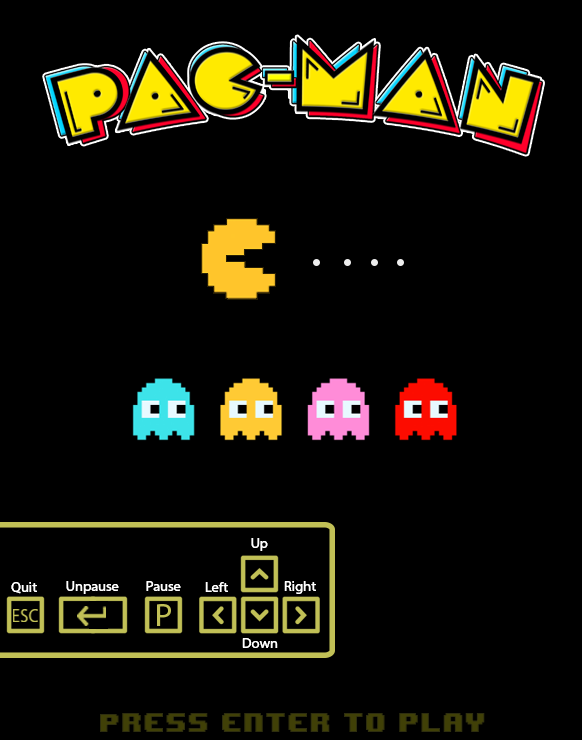
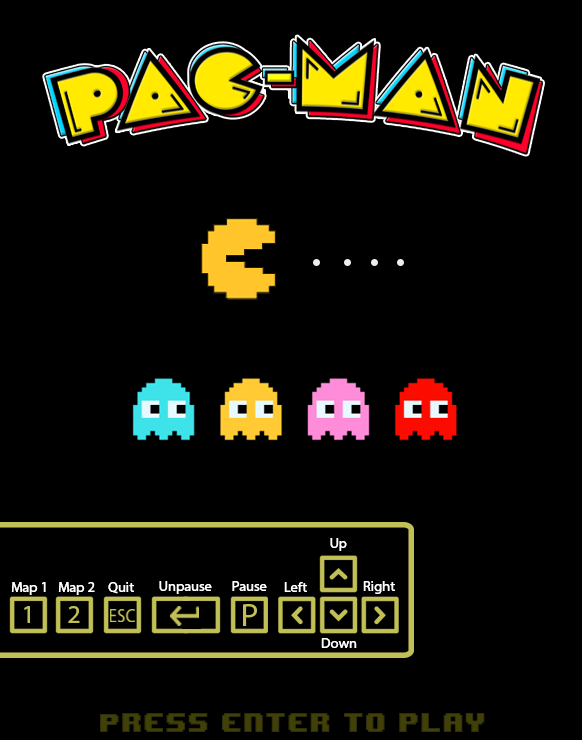
YOu can now change map on mainmenu screen

Changed region(s): [[0.0, 0.6838, 0.7113, 0.9014]]

diff --git a/Managers/GameManager.cpp b/Managers/GameManager.cpp
@@ -12,7 +12,7 @@ GameManager::GameManager() {
     /// Creating and adding all ghost to our ghosts vector.
     m_ghosts.push_back(std::make_shared<RedGhost>(11, 16, 13, 14, 11, 11, 9, 8));
     m_ghosts.push_back(std::make_shared<BlueGhost>(16, 16, 13, 14, 15, 11, 18, 8));
-    m_ghosts.push_back(std::make_shared<PinkGhost>(11, 18, 13, 14, 9, 23, 5, 25));
+    m_ghosts.push_back(std::make_shared<PinkGhost>(11, 18, 13, 14, 9, 23, 6, 25));
     m_ghosts.push_back(std::make_shared<OrangeGhost>(16, 18, 12, 14, 19, 24, 22, 26));
 }
 
@@ -107,7 +107,11 @@ void GameManager::loadGame() {
         Mix_HaltChannel(-1);
         m_gameState = 2;
     } else {
-        m_level = new Map("../Resources/Levels/Level_layout_1.txt");
+        if (m_mapChoice == 2){
+            m_level = new Map("../Resources/Levels/Level_layout_2.txt");
+        }else{
+            m_level = new Map("../Resources/Levels/Level_layout_1.txt");
+        }
         m_soundManager.playIntroSound(m_playedOnce);
         m_gameState = 2;
     }
@@ -127,18 +131,31 @@ void GameManager::pausedState(SDL_Event event) {
     }
 
     if (SDL_PollEvent(&event)) {
-        if (event.type == SDL_KEYDOWN) {
-            /// Unpause
-            if (event.key.keysym.sym == SDLK_RETURN) {
-                m_pause = false;
-                m_gameState = 1;
+            if (event.type == SDL_KEYDOWN) {
+                /// Unpause
+                if (event.key.keysym.sym == SDLK_RETURN) {
+                    m_pause = false;
+                    m_gameState = 1;
 
-                /// Exit game
-            } else if (event.key.keysym.sym == SDLK_ESCAPE) {
-                m_pause = false;
-                m_gameRunning = false;
+                    /// Exit game
+                } else if (event.key.keysym.sym == SDLK_ESCAPE) {
+                    m_pause = false;
+                    m_gameRunning = false;
+                }
+                ///if its the first time mainmenu screen shows, you can choose which map, and pacmans y-coordinate changes because of map spawn difference.
+                else if (event.key.keysym.sym == SDLK_1) {
+                    if(!m_playedOnce){
+                        m_mapChoice = 1;
+                        m_pacman = Pacman(26);
+                    }
+                }
+                else if (event.key.keysym.sym == SDLK_2) {
+                    if(!m_playedOnce){
+                        m_mapChoice = 2;
+                        m_pacman = Pacman(23);
+                    }
+                }
             }
-        }
     }
 }
 

diff --git a/Characters/Ghosts/OrangeGhost.cpp b/Characters/Ghosts/OrangeGhost.cpp
@@ -42,7 +42,7 @@ void OrangeGhost::doWaypointPath(){
         }
     }
 }
-void OrangeGhost::renderCharacter(Pacman & pMan) {
+void OrangeGhost::renderCharacter(Pacman &pMan) {
     m_texture = IMG_LoadTexture(GameManager::renderer, "../Resources/Images/PacManSpriteSheet_20x20.png");
     SDL_Rect srect;
     srect.y = 7 * TILE_SIZE;
@@ -58,24 +58,8 @@ void OrangeGhost::renderCharacter(Pacman & pMan) {
     if(m_direction == direction::RIGHT){
         srect.x = 3 * TILE_SIZE;
     }
-    if(pMan.getPowerUpDuration() < 4){
-        srect.x = 0;
-        srect.y = 8 * TILE_SIZE;
-    }
-    /// Test example for blinking when 1 second left of powerpill effect
-    if(pMan.getPowerUpDuration() >= 4 && pMan.getPowerUpDuration() <=4.25){
-        srect.x = 1 * TILE_SIZE;
-        srect.y = 8 * TILE_SIZE;
-    } else if(pMan.getPowerUpDuration() >= 4.25 && pMan.getPowerUpDuration() <=4.5){
-        srect.x = 0 * TILE_SIZE;
-        srect.y = 8 * TILE_SIZE;
-    } else if(pMan.getPowerUpDuration() >= 4.5 && pMan.getPowerUpDuration() <=4.75){
-        srect.x = 1 * TILE_SIZE;
-        srect.y = 8 * TILE_SIZE;
-    }else if(pMan.getPowerUpDuration() >= 4.75 && pMan.getPowerUpDuration() <=5){
-        srect.x = 0 * TILE_SIZE;
-        srect.y = 8 * TILE_SIZE;
-    }
+    frightenMode(pMan,srect);
+
     SDL_RenderCopy(GameManager::renderer, m_texture, &srect, &m_coordinates);
     SDL_DestroyTexture(m_texture);
 }

diff --git a/Characters/Ghost.cpp b/Characters/Ghost.cpp
@@ -105,4 +105,25 @@ void Ghost::moveToStartPos() {
     }
 }
 
+void Ghost::frightenMode(Pacman & pMan, SDL_Rect &srect) {
+    /// Turn blue when powerpill effect is active and start blinking when its 1 second left.
+    if(pMan.getPowerUpDuration() < 4){
+        srect.x = 0;
+        srect.y = 8 * TILE_SIZE;
+    }
+    if(pMan.getPowerUpDuration() >= 4 && pMan.getPowerUpDuration() <=4.25){
+        srect.x = 1 * TILE_SIZE;
+        srect.y = 8 * TILE_SIZE;
+    } else if(pMan.getPowerUpDuration() >= 4.25 && pMan.getPowerUpDuration() <=4.5){
+        srect.x = 0 * TILE_SIZE;
+        srect.y = 8 * TILE_SIZE;
+    } else if(pMan.getPowerUpDuration() >= 4.5 && pMan.getPowerUpDuration() <=4.75){
+        srect.x = 1 * TILE_SIZE;
+        srect.y = 8 * TILE_SIZE;
+    }else if(pMan.getPowerUpDuration() >= 4.75 && pMan.getPowerUpDuration() <=5){
+        srect.x = 0 * TILE_SIZE;
+        srect.y = 8 * TILE_SIZE;
+    }
+}
+
 

diff --git a/Characters/Pacman.cpp b/Characters/Pacman.cpp
@@ -1,7 +1,12 @@
 #include "Pacman.h"
 #include "../Managers/GameManager.h"
 
-Pacman::Pacman() : GameCharacter(13, 26, 200) {
+Pacman::Pacman(int yPos) : GameCharacter(13, yPos, 200) {
+    m_yPos= yPos;
+}
+
+Pacman::Pacman(): GameCharacter(13, 26, 200) {
+    m_yPos= 26;
 }
 
 /**
@@ -158,7 +163,7 @@ void Pacman::pacmanDeathAnimation() {
 void Pacman::moveToStartPos() {
     if (!m_lastLife) {
         m_coordinates.x = 13 * TILE_SIZE;
-        m_coordinates.y = 26 * TILE_SIZE;
+        m_coordinates.y = m_yPos * TILE_SIZE;
     }
     m_direction = direction::NONE;
 }

diff --git a/Characters/GameCharacter.h b/Characters/GameCharacter.h
@@ -27,13 +27,14 @@ protected:
     CollisionManager m_collisionManager;
     MovementManager m_movementManager;
     direction m_direction = direction::NONE;
+    SoundManager m_soundManager;
+
     SDL_Rect m_coordinates;
     SDL_Texture *m_texture;
     ///Animation number is used to keep track of which frame of the animation we are on.
     int m_animationNumber;
     int m_speed;
     double m_timer = 0;
-    SoundManager m_soundManager;
 
 public:
 

diff --git a/Characters/Ghosts/PinkGhost.cpp b/Characters/Ghosts/PinkGhost.cpp
@@ -71,10 +71,9 @@ void PinkGhost::renderCharacter(Pacman &pMan) {
     if (m_direction == direction::RIGHT) {
         srect.x = 3 * TILE_SIZE;
     }
-    if (pMan.getPowerUpDuration() < 5) {
-        srect.x = 0;
-        srect.y = 8 * TILE_SIZE;
-    }
+
+    frightenMode(pMan,srect);
+
     SDL_RenderCopy(GameManager::renderer, m_texture, &srect, &m_coordinates);
     SDL_DestroyTexture(m_texture);
 }

diff --git a/Characters/Ghosts/RedGhost.cpp b/Characters/Ghosts/RedGhost.cpp
@@ -58,10 +58,9 @@ void RedGhost::renderCharacter(Pacman &pMan) {
     if (m_direction == direction::RIGHT) {
         srect.x = 3 * TILE_SIZE;
     }
-    if (pMan.getPowerUpDuration() < 5) {
-        srect.x = 0;
-        srect.y = 8 * TILE_SIZE;
-    }
+
+    frightenMode(pMan,srect);
+
     SDL_RenderCopy(GameManager::renderer, m_texture, &srect, &m_coordinates);
     SDL_DestroyTexture(m_texture);
 }

diff --git a/Characters/Ghosts/BlueGhost.cpp b/Characters/Ghosts/BlueGhost.cpp
@@ -60,10 +60,7 @@ void BlueGhost::renderCharacter(Pacman & pMan) {
     if (m_direction == direction::RIGHT) {
         srect.x = 3 * TILE_SIZE;
     }
-    if(pMan.getPowerUpDuration() < 5){
-        srect.x = 0;
-        srect.y = 8 * TILE_SIZE;
-    }
+    frightenMode(pMan,srect);
     SDL_RenderCopy(GameManager::renderer, m_texture, &srect, &m_coordinates);
     SDL_DestroyTexture(m_texture);
 }

diff --git a/Characters/Pacman.h b/Characters/Pacman.h
@@ -8,6 +8,7 @@ class Pacman : public GameCharacter {
 private:
     int m_points = 0;
     int m_health = 3;
+    int m_yPos;
     double m_powerUpDuration = 5;
     bool m_lastLife = false;
 
@@ -25,6 +26,7 @@ private:
 public:
 
     Pacman();
+    Pacman(int yPos);
 
     void pickingUpPillHandler(Map &map);
 

diff --git a/Managers/GameManager.h b/Managers/GameManager.h
@@ -32,6 +32,7 @@ private:
     SoundManager m_soundManager;
     std::chrono::high_resolution_clock::time_point m_lastFrame = std::chrono::high_resolution_clock::now();
     int m_gameState = 1;
+    int m_mapChoice = 1;
     double m_timer = 0;
     bool m_gameRunning = true;
     bool m_playedOnce = false;

diff --git a/Characters/Ghosts/OrangeGhost.h b/Characters/Ghosts/OrangeGhost.h
@@ -8,7 +8,7 @@ class OrangeGhost : public Ghost {
 public:
     OrangeGhost(int x, int y, int wp1, int wp2, int wp3, int wp4, int wp5, int wp6);
 
-    void doWaypointPath();
+    void doWaypointPath() override;
 
     void renderCharacter(Pacman &pMan) override;
 };

diff --git a/Characters/Ghost.h b/Characters/Ghost.h
@@ -33,6 +33,8 @@ public:
     virtual void doWaypointPath(){};
 
     virtual void renderCharacter(Pacman &pMan) {};
+
+    void frightenMode(Pacman &pMan, SDL_Rect &srect);
 };
 
 
